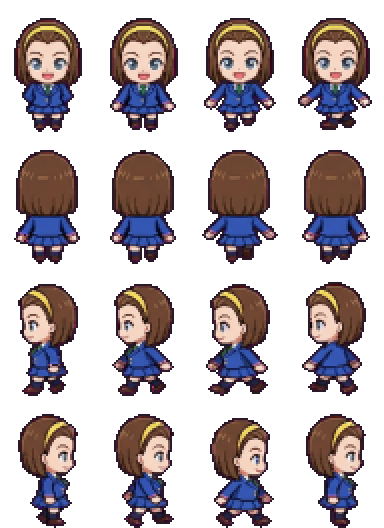
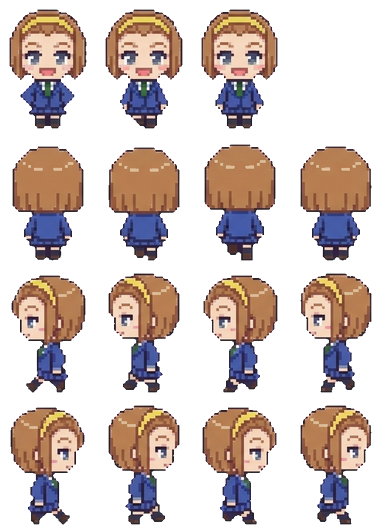
Redraw Suzuki Sonoko in the shared art style
Claude-Session: https://claude.ai/code/session_01KaPsBYLrtbRfMYNG2xeBCK

diff --git a/docs/app.js b/docs/app.js
@@ -75,7 +75,7 @@ function spr(cat, k, col, sc) {
   return `<div class="clip" style="width:${it[2] * sc}px;height:${it[3] * sc}px;POS"><img class="px" src="assets/decor/${cat}.png" alt="" style="width:${S.sw * sc}px;height:${S.sh * sc}px;margin-left:${-col * S.cw * sc}px;margin-top:${-i * S.ch * sc}px"></div>`;
 }
 const icon = (k, sz) => `<span class="itm" style="width:${sz}px;height:${sz}px"><img class="px" src="assets/ui/items.png" alt="" style="width:${IT.length * sz}px;height:${sz}px;margin-left:${-ITM[k].i * sz}px"></span>`;
-const face = (id, w) => { const s = w / 96; return `<img class="px" src="assets/ch/${id}.webp?v=64" alt="" style="position:absolute;width:${384 * s}px;height:${528 * s}px;left:${-(96 * s - w) / 2}px;top:0;max-width:none">`; };
+const face = (id, w) => { const s = w / 96; return `<img class="px" src="assets/ch/${id}.webp?v=65" alt="" style="position:absolute;width:${384 * s}px;height:${528 * s}px;left:${-(96 * s - w) / 2}px;top:0;max-width:none">`; };
 
 // ---------- 저장 ----------
 let fb = null, user = null, S = null, saveT = null;
@@ -143,7 +143,7 @@ function sleepHTML(id, r, dy) {
   const pos = r.a && r.a[0] === 'bed' ? 'left:3%;bottom:20%' : r.b && r.b[0] === 'bed' ? 'right:3%;bottom:20%' : 'left:calc(50% - 44px);bottom:6%';
   const s = 36 / 96;
   return `<div style="position:absolute;width:88px;height:56px;${pos};z-index:${dy ? 4 : 5};${dy ? `transform:translate(12px,${dy}px)` : ''}"><div style="position:absolute;inset:0;filter:brightness(.22)">
-    <div style="position:absolute;left:11px;top:1px;width:36px;height:50px;overflow:hidden;transform:rotate(-90deg)"><img class="px" src="assets/ch/${id}.webp?v=64" alt="" style="width:${384 * s}px;height:${528 * s}px;max-width:none;margin-top:${-132 * s}px"></div>
+    <div style="position:absolute;left:11px;top:1px;width:36px;height:50px;overflow:hidden;transform:rotate(-90deg)"><img class="px" src="assets/ch/${id}.webp?v=65" alt="" style="width:${384 * s}px;height:${528 * s}px;max-width:none;margin-top:${-132 * s}px"></div>
     <div style="position:absolute;left:19px;top:19px;width:67px;height:29px;border:2px solid var(--ink);border-radius:8px 6px 4px 4px;background:#8ccff5;background-image:repeating-linear-gradient(90deg,transparent 0 10px,rgba(255,255,255,.5) 10px 13px)"></div></div>
     ${dy ? '' : '<span class="emo" style="left:8px;top:-22px;color:#5b6bd6">Z z z</span>'}</div>`;
 }
@@ -153,8 +153,8 @@ function roomHTML(id, o, scale) {
     <div class="floor" style="background-color:${PAL[r.fc][1]};background-image:${tileUrl('floor', r.fl)}"></div>
     ${slot('deco', r.dc, 'left:6%;top:6%')}${slot('furn', r.a, 'left:3%;bottom:20%')}${slot('furn', r.b, 'right:3%;bottom:20%')}${slot('prop', r.pr, 'left:28%;bottom:4%;z-index:2')}
     ${id && o.sleeping && g ? sleepHTML(g, r, -16) : ''}${id && o.sleeping ? sleepHTML(id, r) : ''}${id && o.job ? `<div style="position:absolute;left:50%;top:38%;transform:translateX(-50%);z-index:5;background:#fff;border:3px solid var(--ink);border-radius:10px;padding:6px 10px;font-size:11px;text-align:center;line-height:1.5"><img src="assets/ui/ic_job.png" alt="" style="width:18px;vertical-align:-4px"> ${WORK[id] ? WORK[id][1] : esc(JOB_NAME[id]) + ' 알바 중'}${g ? `<br><small>${esc(nameOf(g))}도 같이</small>` : ''}<br><b id="jobleft">${timeLeft(o.job.until)}</b></div>` : ''}
-    ${id ? `<div class="shadow" id="shd" ${o.sleeping || o.job ? 'style="display:none"' : ''}></div><div class="man" id="man" ${o.sleeping || o.job ? 'style="display:none"' : ''}><img class="px" src="assets/ch/${id}.webp?v=64" alt="${esc(nameOf(id))}"></div><span class="emo" id="emo" hidden></span><span class="mumble" id="mum" hidden></span>` : ''}
-    ${g ? `<div class="shadow" id="gshd" ${hideG}></div><div class="man" id="gman" ${hideG}><img class="px" src="assets/ch/${g}.webp?v=64" alt="${esc(nameOf(g))}"></div><span class="emo" id="gemo" hidden></span><span class="mumble gmum" id="gmum" hidden></span>` : ''}
+    ${id ? `<div class="shadow" id="shd" ${o.sleeping || o.job ? 'style="display:none"' : ''}></div><div class="man" id="man" ${o.sleeping || o.job ? 'style="display:none"' : ''}><img class="px" src="assets/ch/${id}.webp?v=65" alt="${esc(nameOf(id))}"></div><span class="emo" id="emo" hidden></span><span class="mumble" id="mum" hidden></span>` : ''}
+    ${g ? `<div class="shadow" id="gshd" ${hideG}></div><div class="man" id="gman" ${hideG}><img class="px" src="assets/ch/${g}.webp?v=65" alt="${esc(nameOf(g))}"></div><span class="emo" id="gemo" hidden></span><span class="mumble gmum" id="gmum" hidden></span>` : ''}
     ${o.sleeping ? `<div class="night"></div><div class="sleepleft">쿨쿨 · 일어나기까지 <b id="sleepleft">${timeLeft(wakeAt(o)).replace(' 남음', '')}</b></div>` : ''}
   </div>`;
 }
@@ -167,7 +167,7 @@ function meterHTML(o) {
 const ic = (act, img, label, pressed) => `<button class="ic" data-act="${act}" ${pressed ? 'aria-pressed="true"' : ''}><img src="assets/ui/ic_${img}.png?v=2" alt="">${label}</button>`;
 
 let dropStyle = null; const cheat = {};
-const APP_V = 136, COUPONS = { NINOGUYA: 3000 };
+const APP_V = 137, COUPONS = { NINOGUYA: 3000 };
 // 쿠폰 입력 정리: 한글 자판 상태로 친 글자(ㅜㅑㅜㅐ혀ㅛㅁ)도 영어 자판 글자로 바꾸고, 대소문자·띄어쓰기·마침표는 무시해요
 const KEY = { ㄱ: 'r', ㄲ: 'R', ㄴ: 's', ㄷ: 'e', ㄸ: 'E', ㄹ: 'f', ㅁ: 'a', ㅂ: 'q', ㅃ: 'Q', ㅅ: 't', ㅆ: 'T', ㅇ: 'd', ㅈ: 'w', ㅉ: 'W', ㅊ: 'c', ㅋ: 'z', ㅌ: 'x', ㅍ: 'v', ㅎ: 'g',
   ㅏ: 'k', ㅐ: 'o', ㅑ: 'i', ㅒ: 'O', ㅓ: 'j', ㅔ: 'p', ㅕ: 'u', ㅖ: 'P', ㅗ: 'h', ㅘ: 'hk', ㅙ: 'ho', ㅚ: 'hl', ㅛ: 'y', ㅜ: 'n', ㅝ: 'nj', ㅞ: 'np', ㅟ: 'nl', ㅠ: 'b', ㅡ: 'm', ㅢ: 'ml', ㅣ: 'l',
@@ -407,7 +407,7 @@ function startTrip(k) {
   if (tg) lines[1] = `${nameOf(tg)}: ${withHim(sub(pick(GLX(tg).trip), o, c.n), tg)}`;
   const n = (FR[id] || [4, 4, 4, 4])[3], el = document.createElement('div'); el.className = 'tripview';
   el.innerHTML = `<div class="tsay"> </div><div class="tstage" style="background-image:url(assets/travel/${k}.png?v=2)"><div class="tplace">${esc(c.n)}</div>
-    <div class="twalker"><img class="px" src="assets/ch/${id}.webp?v=64" alt=""></div>${tg ? `<div class="twalker tgirl"><img class="px" src="assets/ch/${tg}.webp?v=64" alt=""></div>` : ''}<span class="emo tjoy">♪</span></div>
+    <div class="twalker"><img class="px" src="assets/ch/${id}.webp?v=65" alt=""></div>${tg ? `<div class="twalker tgirl"><img class="px" src="assets/ch/${tg}.webp?v=65" alt=""></div>` : ''}<span class="emo tjoy">♪</span></div>
     <div class="tbar"><i></i></div><button class="btn white tskip" data-tskip="1">바로 돌아오기</button>`;
   document.body.appendChild(el);
   const gimg = el.querySelector('.tgirl img'), gn = tg ? (FR[tg] || [4, 4, 4, 4])[3] : 1;
@@ -636,7 +636,7 @@ setInterval(() => { if (S && user) { tickTime(); save(); } }, 60000);
     if (nv > APP_V && !location.search.includes('u=' + nv)) { location.replace(location.pathname + '?u=' + nv); return; }
   } catch { }
   app.innerHTML = '<div class="start"><div class="egg"><div class="scr"></div></div><div class="note">불러오는 중....</div></div>';
-  const [c, t, f, it, mu, ct, tv, gl, sts] = await Promise.all(['data/chars.json', 'data/talk.json', 'data/frames.json', 'data/items.json', 'data/mumble.json', 'data/countries.json', 'data/travel.json', 'data/girls.json', 'data/sets.json'].map(u => fetch(u + '?v=136').then(r => r.ok ? r.json() : {})));
+  const [c, t, f, it, mu, ct, tv, gl, sts] = await Promise.all(['data/chars.json', 'data/talk.json', 'data/frames.json', 'data/items.json', 'data/mumble.json', 'data/countries.json', 'data/travel.json', 'data/girls.json', 'data/sets.json'].map(u => fetch(u + '?v=137').then(r => r.ok ? r.json() : {})));
   CH = c; CHM = Object.fromEntries(c.map(x => [x.id, x])); TALK = t; FR = f; IT = it; ITM = Object.fromEntries(it.map(x => [x.k, x])); MUM = mu; CTRY = ct; TRV = tv; GL = Array.isArray(gl) ? gl : []; SETS = Array.isArray(sts) ? sts : []; GLM = Object.fromEntries(GL.map(x => [x.id, x]));
   try { await initFirebase(); } catch (e) { console.warn('Firebase 연결 실패, 기기 저장으로', e); fb = null; }
   if (fb) {

diff --git a/docs/index.html b/docs/index.html
@@ -18,6 +18,6 @@
 <main id="app" aria-live="polite"></main>
 <div id="toast" role="status" hidden></div>
 <script src="firebase-config.js?v=3"></script>
-<script type="module" src="app.js?v=136"></script>
+<script type="module" src="app.js?v=137"></script>
 </body>
 </html>
